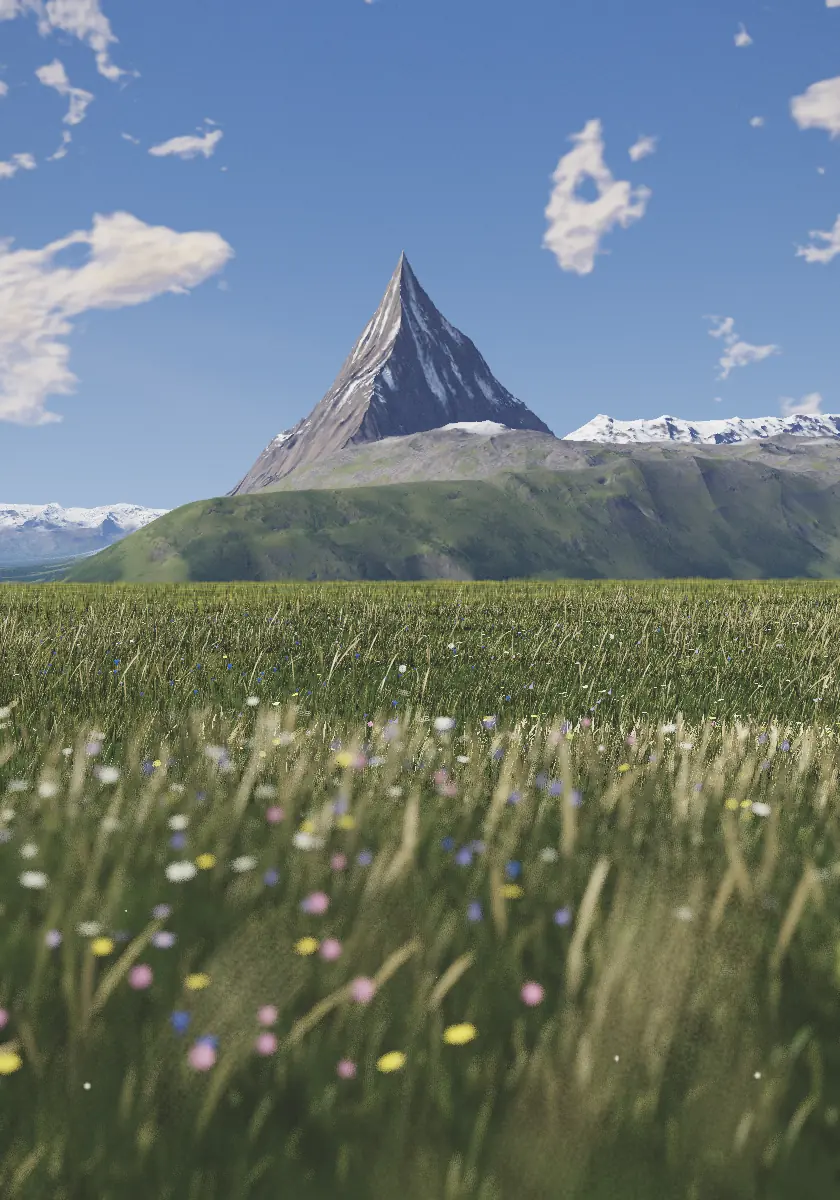
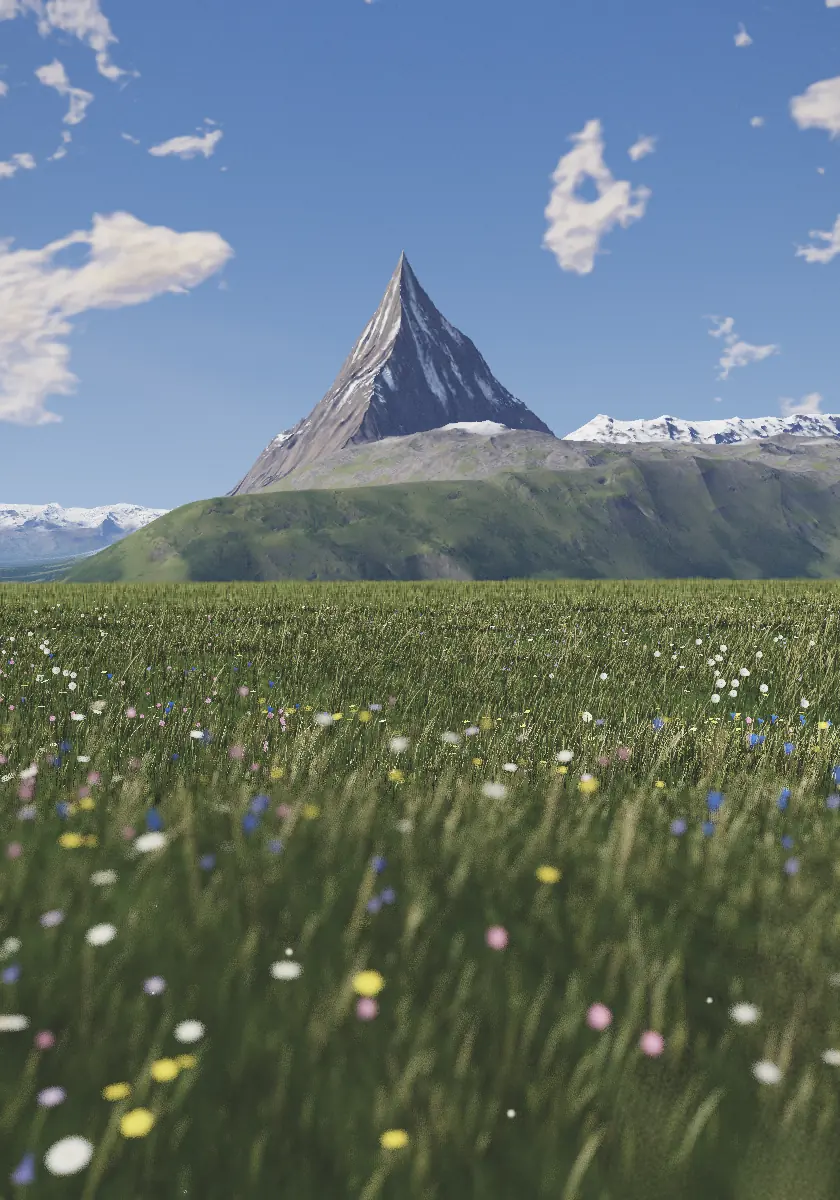
the seeding patches come out of the tall frame's meadow again, which read better without them

Changed region(s): [[0.0, 0.4933, 1.0, 1.0], [0.8048, 0.9867, 0.8357, 1.0]]

diff --git a/sky.js b/sky.js
@@ -1443,16 +1443,6 @@ float jetSdf(vec2 q) {
   d = min(d, cap(q, vec2(-1.05, 0.0), vec2(-1.45, -0.6), 0.09, 0.04));
   return d * JS;
 }
-/* where the meadow has gone to seed, as buildMeadow grows it: the far
-   ground on a tall frame stands taller and hay-coloured in the same
-   patches, so the carpet and the ground beyond it are one meadow */
-float seeding(vec2 q) {
-  return 0.6 * vn(q / 2.4 + vec2(5.0, 9.0)) + 0.4 * vn(q / 1.1 + vec2(13.0, 2.0));
-}
-vec3 hay(vec3 c, vec2 q) {
-  float s = seeding(q);
-  return mix(c, c * vec3(1.3, 1.12, 0.72), LIFT * smoothstep(0.5, 0.75, s)) * (1.0 + LIFT * 0.3 * (s - 0.5));
-}
 vec3 milky(vec3 d) {
   float b = dot(d, GN);
   float along = atan(dot(d, GV), dot(d, GC));
@@ -1604,7 +1594,6 @@ void main() {
     l2 *= 1.0 - a2.a * (1.0 - cloudShade(wp, LK[2].sun)) * 0.5;
   }
   vec3 land = W.x * l0 + W.y * l1 + W.z * l2;
-  if (LIFT > 0.0 && al > 0.999 && td > 4.0 && td < 400.0) land = hay(land, wp.xz);
   /* the brow of the meadow, where it falls away into the valley a
      hundred metres out. A lying eye sees its own tall blades and seed
      heads stand across it; a raised eye sees it as a line, since no
@@ -1630,7 +1619,7 @@ void main() {
       m0 *= 1.0 - b3.b * (1.0 - cloudShade(wq, LK[0].sun)) * 0.72;
       m2 *= 1.0 - b2.a * (1.0 - cloudShade(wq, LK[2].sun)) * 0.5;
       float cov = LIFT * 0.9 * (1.0 - (float(j) - 0.5) / reach);
-      land = mix(land, hay(W.x * m0 + W.y * m1 + W.z * m2, wq.xz), cov);
+      land = mix(land, W.x * m0 + W.y * m1 + W.z * m2, cov);
       al = max(al, cov);
       break;
     }
@@ -1872,24 +1861,6 @@ function mulberry32(a) {
   };
 }
 
-/* the shaders' lattice hash and value noise, bit for bit, so the grass
-   grown here and the ground shaded there can share one pattern */
-function ghash(x, z) {
-  var qx = Math.imul(Math.floor(x) | 0, 1597334673), qz = Math.imul(Math.floor(z) | 0, -482951495);
-  return (Math.imul(qx ^ qz, 1597334673) >>> 0) / 4294967295;
-}
-function gvn(x, z) {
-  var ix = Math.floor(x), iz = Math.floor(z), fx = x - ix, fz = z - iz;
-  fx = fx * fx * (3 - 2 * fx); fz = fz * fz * (3 - 2 * fz);
-  var a = ghash(ix, iz), b = ghash(ix + 1, iz), c = ghash(ix, iz + 1), d = ghash(ix + 1, iz + 1);
-  return (a + (b - a) * fx) * (1 - fz) + (c + (d - c) * fx) * fz;
-}
-/* where the meadow has gone to seed: patches a couple of metres across
-   in which the grass stands taller and hay-coloured, with its stalks up */
-function seeding(x, z) {
-  return 0.6 * gvn(x / 2.4 + 5, z / 2.4 + 9) + 0.4 * gvn(x / 1.1 + 13, z / 1.1 + 2);
-}
-
 var windRnd = mulberry32(99);
 var WN = [];
 for (var wi = 0; wi < 256; wi++) WN.push(windRnd());
@@ -2031,23 +2002,19 @@ function buildMeadow(w, h) {
     p = place(z, rnd() * 2 - 1);
     var nb = 4 + Math.floor(rnd() * 9);
     var tall = 0.55 + 0.9 * rnd() * rnd();
-    /* a lying eye sees the meadow's unevenness only as its rim; a
-       raised eye looks down on all of it, and an even meadow is a lawn
-       to it, so a tall frame's meadow goes to seed in patches: there
-       the tussocks stand taller, more of them hay-coloured, and more of
-       their blades are stalks, which elsewhere past eight metres grow
-       as blades, since a stalk alone over the carpet is a speck */
-    var seed = seeding(p[0], p[1]), gone = seed > 0.56 ? LIFT : 0;
-    tall *= 1 + LIFT * 0.9 * (seed - 0.5);
-    var tint0 = rnd(), dry0 = rnd() < 0.12 + 0.4 * gone;
+    var tint0 = rnd(), dry0 = rnd() < 0.12;
     var keep = !thin && inView(p[0], p[1]);
     for (j = 0; j < nb; j++) {
       var ang = rnd() * Math.PI * 2, rr = 0.05 * Math.sqrt(rnd());
       var x = p[0] + Math.cos(ang) * rr, zz = p[1] + Math.sin(ang) * rr;
-      var kind = rnd() < 0.07 + 0.1 * gone ? 1 : 0;
-      if (kind === 1 && z > 8 && LIFT > 0 && !gone && rnd() < LIFT) kind = 0;
+      var kind = rnd() < 0.07 ? 1 : 0;
+      /* a lying eye sees the far seed heads against the sky along the
+         carpet's rim; a raised eye would see them as bright specks all
+         over it, so on a tall frame the stalks past eight metres grow
+         as blades */
+      if (kind === 1 && z > 8 && LIFT > 0 && rnd() < LIFT) kind = 0;
       h = kind === 1 ? 0.26 + 0.3 * rnd() : (0.06 + 0.24 * Math.pow(rnd(), 1.3)) * tall;
-      var bl = [x, zz, h, kind === 1 ? 0.0022 * (1 + 1.5 * LIFT) : 0.0028 + 0.0035 * rnd(),
+      var bl = [x, zz, h, kind === 1 ? 0.0022 : 0.0028 + 0.0035 * rnd(),
         ang + (rnd() - 0.5) * 0.6, 0.12 + 0.34 * rnd(), Math.min(1, Math.max(0, tint0 + (rnd() - 0.5) * 0.3)), rnd(),
         kind, 0.6 + 0.8 * rnd(), 0.4 + 0.8 * rnd(), dry0 ? 0.47 : rnd() * 0.9 - 0.45];
       if (!keep) continue;
@@ -2105,8 +2072,8 @@ function buildMeadow(w, h) {
   var ns = Math.round(LIFT * 10 * 10 * TANG * 700);
   for (i = 0; i < ns; i++) {
     z = 10 * Math.sqrt(rnd());
+    if (z < NEAR_Z || rnd() > Math.min(1, 3 / z, (10 - z) / 4, (z - 0.4) / 2.6)) continue;
     p = place(z, rnd() * 2 - 1);
-    if (z < NEAR_Z || rnd() > Math.min(1, 3 / z, (10 - z) / 4, (z - 0.4) / 2.6) * (0.4 + 1.2 * seeding(p[0], p[1]))) continue;
     h = 0.04 + 0.08 * rnd();
     var sw = [p[0], p[1], h, 0.003 + 0.004 * rnd(), rnd() * Math.PI * 2, 0.05 + 0.25 * rnd(), rnd(), rnd(),
       0, 0.6 + 0.8 * rnd(), 0.4 + 0.8 * rnd(), rnd() * 0.9 - 0.45];

diff --git a/style.css b/style.css
@@ -31,11 +31,11 @@
         rgba(0, 0, 0, 0.028) calc(100% - var(--fade) * 0.1),
         transparent);
[9 lines of base64/hex data omitted]
     --glimpse: var(--glimpse-day-wide);
     --poster: url(/stills/day-wide.webp);
     transition-property: --paper, --ink, --quiet, --underline, --accent, --wash, --sky;
